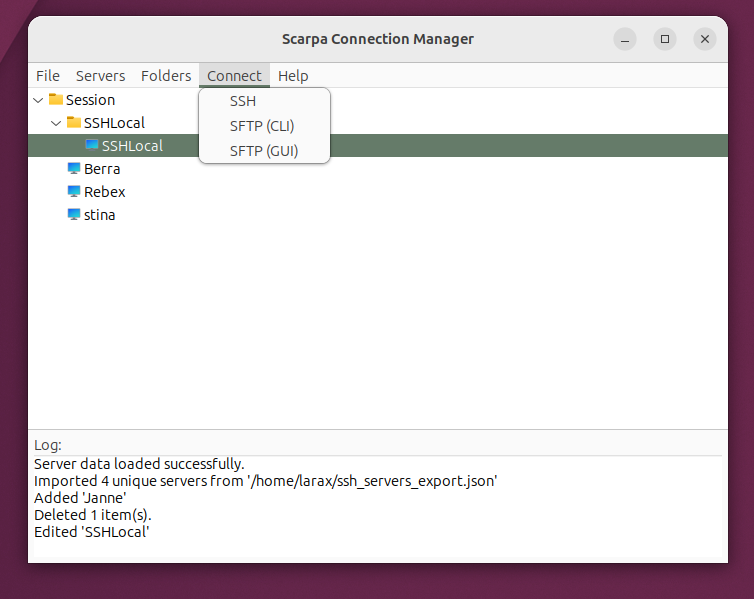
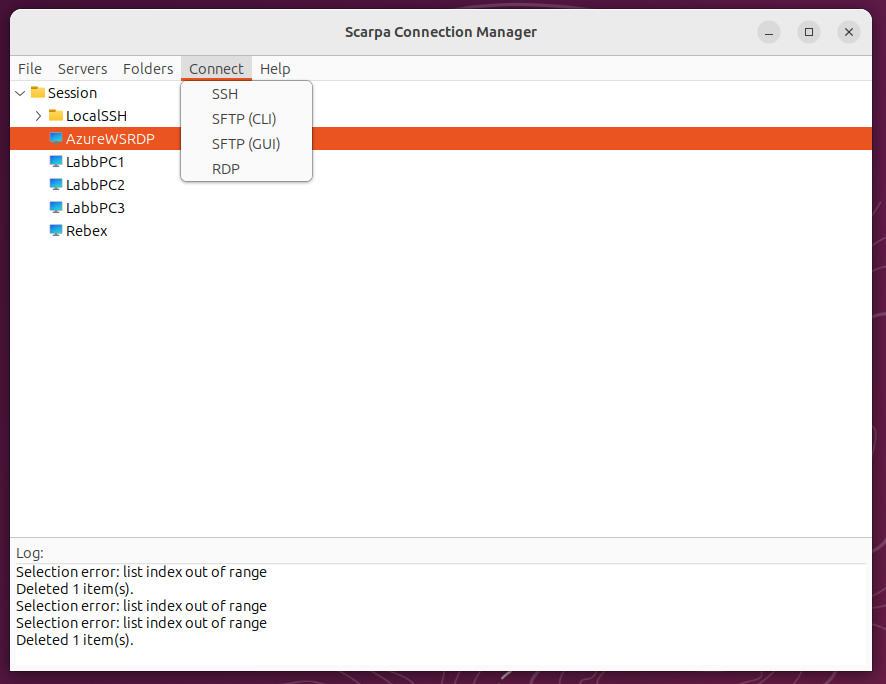
Updated user_guide.html and readme.md

Changed region(s): [[0.0, 0.0, 1.0, 1.0]]

diff --git a/docs/user_guide.html b/docs/user_guide.html
@@ -113,6 +113,8 @@
                             <li><a href="#login-actions-tab">2.1.4 Login Actions Tab</a></li>
                             <li><a href="#port-forwarding-tab">2.1.5 Port Forwarding Tab</a></li>
                             <li><a href="#appearance-tab">2.1.6 Appearance Tab</a></li>
+                            <li><a href="#rdp-tab">2.1.7 RDP Tab</a></li>
+                            
                         </ul>
                     </li>
                 </ul>
@@ -334,6 +336,37 @@
             <img src="AppearanceSelectFont.png" alt="Font Selection Dialog">
             <div class="screenshot-caption">Selecting a custom monospace font.</div>
         </div>
+        
+        <h4 id="rdp-tab">2.1.7 RDP Tab</h4>
+        <p>The <strong>RDP</strong> tab enables you to configure Remote Desktop Protocol settings, which is essential if you are connecting to Windows servers or desktop environments. This tab also includes advanced SSH tunneling capabilities for reaching RDP servers hidden behind strict firewalls.</p>
+
+        <div class="screenshot-container">
+            <img src="RDPTab.png" alt="RDP Tab Dialog">
+            <div class="screenshot-caption">Configuring Remote Desktop (RDP) settings and SSH Jump chains.</div>
+        </div>
+
+        <p>Here is a breakdown of the available RDP configuration options:</p>
+        <ul>
+            <li><strong>Enable RDP connection for this server:</strong> This master switch must be checked to activate the RDP functionality for the current server profile.</li>
+            <li><strong>RDP Port:</strong> Defines the network port used for the remote desktop connection (defaults to the standard 3389).</li>
+            <li><strong>Resolution:</strong> Allows you to set a specific window size (e.g., 1920x1080), or choose Dynamic/Fullscreen based on your display preferences.</li>
+            <li><strong>Enable Clipboard Sharing (Copy/Paste):</strong> Seamlessly share copied text and files between your local machine and the remote desktop environment.</li>
+            <li><strong>Redirect Audio to Local Machine:</strong> When enabled, sound generated on the remote machine will be routed and played through your local computer's speakers.</li>
+            <li><strong>Ignore Certificate Warnings:</strong> Bypasses security warnings commonly caused by self-signed RDP certificates on internal networks.</li>
+            <li><strong>Share Local Home Folder:</strong> Securely maps your local machine's home directory so it appears as a readable/writable networked drive inside the remote Windows session.</li>
+        </ul>
+
+        <h5 style="color: var(--primary-color); font-size: 1.1em; margin-top: 1.5em;">SSH Jump Hosts</h5>
+        <p>If your target RDP server is not directly accessible from your local network, you can use the <strong>SSH Jump Hosts</strong> feature to securely tunnel your RDP traffic through one or more intermediate SSH servers.</p>
+
+        <ul>
+            <li><strong>Managing the Chain:</strong> Use the Add, Edit, and Delete buttons to define the SSH servers required to reach your final destination.</li>
+            <li><strong>Order Matters:</strong> The connection sequence executes strictly from <strong>Top to Bottom</strong>. Ensure your chain is ordered correctly using the Up and Down arrow buttons.</li>
+        </ul>
+        
+        <div class="note-box">
+            <strong>Behind the Scenes:</strong> Scarpa automatically builds the complex SSH proxy tunnel in the background, negotiates all required passwords across multiple hops, routes the RDP session securely over the tunnel, and safely tears the tunnel down the moment you close the RDP window.
+        </div>
 	</section>
 
     <section id="organizing">
@@ -496,7 +529,7 @@
                 <div class="screenshot-caption">Connecting via the top menu bar.</div>
             </div>
             <div class="screenshot-container" style="flex: 1; margin: 0;">
-                <img src="ServerActionViaRightClick.png" alt="Connect via Right Click">
+                <img src="ConnectActionViaRightClick.png" alt="Connect via Right Click">
                 <div class="screenshot-caption">Connecting directly via the right-click context menu.</div>
             </div>
         </div>

diff --git a/src/scarpa_connection_manager.py b/src/scarpa_connection_manager.py
@@ -6462,7 +6462,7 @@ if logger.f: logger.f.close()
             modal=True,
             program_name=APP_TITLE,
             version="1.2.23",
-            authors=["Copilot, Gemini, Tomas Larsson"],
+            authors=["Gemini, Tomas Larsson"],
             artists=["Tomas Larsson"],
             comments="A GTK-based SSH/SFTP session manager.\nRiposa in pace, Aquila di Filottrano. Sarai sempre con noi!"
         )

diff --git a/docs/readme.md b/docs/readme.md
@@ -1,149 +1,149 @@
-# Scarpa Connection Manager – User & Technical Guide
+# Scarpa Connection Manager – User & Technical Guide[cite: 2]
 
-## Table of Contents
-1. [Introduction](#1-introduction)  
-2. [Core Features](#2-core-features)  
-   - [Server & Folder Management](#21-server--folder-management)  
-   - [Connection & Automation](#22-connection--automation)  
-   - [Data Management & Logging](#23-data-management--logging)  
-   - [SFTP File Manager](#24-sftp-file-manager)
-3. [The "Super Safe" Encryption System](#3-the-super-safe-encryption-system)  
-   - [How It Works](#31-how-it-works)  
-   - [Data Storage Location](#32-data-storage-location)  
-   - [Changing Your Passphrase](#33-changing-your-passphrase)  
-4. [Appearance & Customization](#4-appearance--customization)  
-   - [Per-Server Customization](#41-per-server-customization)  
-   - [Global Settings](#42-global-settings)  
-5. [Importing & Exporting Data](#5-importing--exporting-data)  
-6. [Getting Started](#6-getting-started)  
-7. [Installation Instructions](#7-installation-instructions)  
-8. [Troubleshooting & Dependencies](#8-troubleshooting--dependencies)
-
----
-
-## 1. Introduction
-Scarpa Connection Manager is a secure GTK3-based desktop application for managing and launching SSH and SFTP connections. It organizes server configurations into folders, automates complex login sequences, and supports advanced port forwarding.  
-Sensitive data is heavily protected using a robust GnuPG-based local encryption system.
+## Table of Contents[cite: 2]
+1. [Introduction](#1-introduction)[cite: 2]
+2. [Core Features](#2-core-features)[cite: 2]
+   - [Server & Folder Management](#21-server--folder-management)[cite: 2]
+   - [Connection & Automation](#22-connection--automation)[cite: 2]
+   - [Data Management & Logging](#23-data-management--logging)[cite: 2]
+   - [SFTP File Manager](#24-sftp-file-manager)[cite: 2]
+3. [The "Super Safe" Encryption System](#3-the-super-safe-encryption-system)[cite: 2]
+   - [How It Works](#31-how-it-works)[cite: 2]
+   - [Data Storage Location](#32-data-storage-location)[cite: 2]
+   - [Changing Your Passphrase](#33-changing-your-passphrase)[cite: 2]
+4. [Appearance & Customization](#4-appearance--customization)[cite: 2]
+   - [Per-Server Customization](#41-per-server-customization)[cite: 2]
+   - [Global Settings](#42-global-settings)[cite: 2]
+5. [Importing & Exporting Data](#5-importing--exporting-data)[cite: 2]
+6. [Getting Started](#6-getting-started)[cite: 2]
+7. [Installation Instructions](#7-installation-instructions)[cite: 2]
+8. [Troubleshooting & Dependencies](#8-troubleshooting--dependencies)[cite: 2]
 
 ---
 
-## 2. Core Features
-
-### 2.1 Server & Folder Management
-- **Hierarchical Organization:** Structure your servers deeply into categorized folders.  
-- **Quick Actions:** Add, edit, and delete servers and folders via intuitive top-bar menus or right-click context menus.  
-- **Multi-selection Support:** Use `Ctrl+Click` / `Shift+Click` for batch operations.  
-- **Inline Renaming:** Slow double-click any item to rename it directly in the tree view (fast double-click to connect).  
-- **Drag-and-Drop:** Seamlessly reorganize your structure by dragging items between folders.  
-- **Keyboard Shortcuts:** Quick copy/paste via `Ctrl+C` / `Ctrl+V`, and fast deletion via `Delete`.  
-- **Natural Sorting:** Alphanumeric sorting ensures `server10` correctly appears after `server9`.
-
-### 2.2 Connection & Automation
-- **Multi-Protocol:** Direct access to standard SSH interactive terminals and CLI SFTP sessions.  
-- **Embedded VTE Terminal:** Features smart copy/paste, context menus, and auto-resize syncing with the remote host.  
-- **Authentication Options:** Securely authenticate via standard passwords or Private Key files (e.g., RSA/ED25519).  
-- **Automated Login Sequences:** Build robust Expect/Send steps to automate jump-servers or secondary prompts (passwords can be visually hidden as dots in the UI).  
-- **Advanced Port Forwarding:** Visually configure Local (-L), Remote (-R), and Dynamic (-D) SOCKS proxies.  
-
-### 2.3 Data Management & Logging
-- **GUI Log Pane:** Real-time feedback on application events, transfers, and connection statuses at the bottom of the main window.  
-- **Session Logging:** Save permanent, timestamped records of your SSH terminal output to local text files.  
-
-### 2.4 SFTP File Manager
-- **Dual-Pane Interface:** Visually manage files between your Local machine (left) and Remote server (right) side-by-side.
-- **Intuitive Navigation:** Clickable breadcrumb paths and dedicated refresh buttons keep both panes up to date.
-- **Drag & Drop Transfers:** Seamlessly upload, download, or move files by dragging them between panes or directly onto breadcrumb folders.
-- **Smart Transfers (Stop & Resume):** Instantly abort accidental transfers (Red X) or resume partially downloaded/uploaded files to save bandwidth.
-- **Recursive Search:** Search deeply through subfolders with the binoculars tool, and double-click any result to navigate there instantly.
-- **Open Default File Types (Auto-Sync):** Double-click any recognized file (local or remote) to open it in your system's default application (e.g., text editor). Remote files are securely downloaded to a temporary folder, and any saves you make are automatically synced back to the server in the background!
-- **Context Menus & Shortcuts:** Use `Ctrl+C`, `Ctrl+X`, `Ctrl+V`, `Delete` (moves to Trash), and `Shift+Delete` (permanent destruction) to manage files at lightning speed.
+## 1. Introduction[cite: 2]
+Scarpa Connection Manager is a secure GTK3-based desktop application for managing and launching SSH and SFTP connections.[cite: 2] It organizes server configurations into folders, automates complex login sequences, and supports advanced port forwarding.[cite: 2] 
+Sensitive data is heavily protected using a robust GnuPG-based local encryption system.[cite: 2]
 
 ---
 
-## 3. The "Super Safe" Encryption System
+## 2. Core Features[cite: 2]
 
-### 3.1 How It Works
-1. A Master Passphrase is created on the very first launch.  
-2. The passphrase is mathematically hashed using PBKDF2-HMAC-SHA256 (600,000 iterations, locally salted).  
-3. Server data is stored in `ssh_servers.json.gpg` encrypted with AES256 via GnuPG.  
-4. Your passwords and keys are decrypted *only in memory* during active sessions.  
+### 2.1 Server & Folder Management[cite: 2]
+- **Hierarchical Organization:** Structure your servers deeply into categorized folders.[cite: 2]
+- **Quick Actions:** Add, edit, and delete servers and folders via intuitive top-bar menus or right-click context menus.[cite: 2]
+- **Multi-selection Support:** Use `Ctrl+Click` / `Shift+Click` for batch operations.[cite: 2]
+- **Inline Renaming:** Slow double-click any item to rename it directly in the tree view (fast double-click to connect).[cite: 2]
+- **Drag-and-Drop:** Seamlessly reorganize your structure by dragging items between folders.[cite: 2]
+- **Keyboard Shortcuts:** Quick copy/paste via `Ctrl+C` / `Ctrl+V`, and fast deletion via `Delete`.[cite: 2]
+- **Natural Sorting:** Alphanumeric sorting ensures `server10` correctly appears after `server9`.[cite: 2]
 
-### 3.2 Data Storage Location
-- **Path:** `~/.local/share/scarpa_connection_manager/`  
-- **Files:** 
-  - `scarpa_cm_settings.json` → Global settings, hash + salt of the Master Passphrase.  
-  - `ssh_servers.json.gpg` → Encrypted server configurations.  
+### 2.2 Connection & Automation[cite: 2]
+- **Multi-Protocol:** Direct access to standard SSH interactive terminals, CLI SFTP sessions, and full Windows RDP desktop environments.[cite: 2, 3]
+- **Remote Desktop (RDP):** Native integration for Windows servers including clipboard sharing, audio redirection, dynamic resolution, and local home folder sharing.[cite: 3]
+- **Embedded VTE Terminal:** Features smart copy/paste, context menus, and auto-resize syncing with the remote host.[cite: 2]
+- **Authentication Options:** Securely authenticate via standard passwords or Private Key files (e.g., RSA/ED25519).[cite: 2]
+- **Automated Login Sequences:** Build robust Expect/Send steps to automate jump-servers or secondary prompts (passwords can be visually hidden as dots in the UI).[cite: 2]
+- **Advanced Port Forwarding & Tunnels:** Visually configure Local (-L), Remote (-R), and Dynamic (-D) SOCKS proxies, plus multi-hop SSH Jump Hosts for securely routing RDP traffic.[cite: 2, 3]
 
-### 3.3 Changing Your Passphrase
-- Accessible via `File -> Change Passphrase...`  
-- Requires your current passphrase to verify identity, then securely re-encrypts the entire database atomically with your new passphrase (generating a fresh cryptographic salt).  
+### 2.3 Data Management & Logging[cite: 2]
+- **GUI Log Pane:** Real-time feedback on application events, transfers, and connection statuses at the bottom of the main window.[cite: 2]
+- **Session Logging:** Save permanent, timestamped records of your SSH terminal output to local text files.[cite: 2]
 
----
-
-## 4. Appearance & Customization
-
-### 4.1 Per-Server Customization
-- **Color Schemes:** Apply pre-built palettes (Tango, Solarized, Dracula) or pick custom foreground/background colors for specific environments (e.g., Red for Production).  
-- **Typography:** Choose custom monospace fonts and sizing per terminal.  
-- **Scrollback Buffer:** Define how many lines of history the terminal retains (default: 10,000 lines).  
-
-### 4.2 Global Settings
-Accessed via `File -> Global Settings...`, this defines the application's baseline defaults:
-- Sets the default appearance (font, colors, palette) applied automatically to all *new* servers.  
-- Defines the default log folder for session logs.  
-- Features a "Reset to Defaults" button in the server editor to instantly apply these global settings to any existing server.
-
----
-
-## 5. Importing & Exporting Data
-
-- **Importing (Migrating):** Easily switch to Scarpa by importing existing configurations from other tools like MobaXterm, SecureCRT, and PuTTY via `File -> Import`.
-- **Exporting (Backups):** Export your entire database via `File -> Export`. Choose between a highly secure **GPG Encrypted (.gpg)** file for safe cloud storage, or a **Plaintext JSON (.json)** file (which strips all passwords for security) for scripting and bulk editing.
+### 2.4 SFTP File Manager[cite: 2]
+- **Dual-Pane Interface:** Visually manage files between your Local machine (left) and Remote server (right) side-by-side.[cite: 2]
+- **Intuitive Navigation:** Clickable breadcrumb paths and dedicated refresh buttons keep both panes up to date.[cite: 2]
+- **Drag & Drop Transfers:** Seamlessly upload, download, or move files by dragging them between panes or directly onto breadcrumb folders.[cite: 2]
+- **Smart Transfers (Stop & Resume):** Instantly abort accidental transfers (Red X) or resume partially downloaded/uploaded files to save bandwidth.[cite: 2]
+- **Recursive Search:** Search deeply through subfolders with the binoculars tool, and double-click any result to navigate there instantly.[cite: 2]
+- **Open Default File Types (Auto-Sync):** Double-click any recognized file (local or remote) to open it in your system's default application (e.g., text editor).[cite: 2] Remote files are securely downloaded to a temporary folder, and any saves you make are automatically synced back to the server in the background![cite: 2]
+- **Context Menus & Shortcuts:** Use `Ctrl+C`, `Ctrl+X`, `Ctrl+V`, `Delete` (moves to Trash), and `Shift+Delete` (permanent destruction) to manage files at lightning speed.[cite: 2]
 
 ---
 
-## 6. Getting Started
-1. Launch the app and set your Master Passphrase.  
-2. Add servers by right-clicking on the “Session” folder → **Add Server**.  
-3. Connect by double-clicking a server or right-clicking to choose SSH, SFTP (CLI), or SFTP (GUI).  
+## 3. The "Super Safe" Encryption System[cite: 2]
+
+### 3.1 How It Works[cite: 2]
+1. A Master Passphrase is created on the very first launch.[cite: 2]
+2. The passphrase is mathematically hashed using PBKDF2-HMAC-SHA256 (600,000 iterations, locally salted).[cite: 2]
+3. Server data is stored in `ssh_servers.json.gpg` encrypted with AES256 via GnuPG.[cite: 2]
+4. Your passwords and keys are decrypted *only in memory* during active sessions.[cite: 2]
+
+### 3.2 Data Storage Location[cite: 2]
+- **Path:** `~/.local/share/scarpa_connection_manager/`[cite: 2]
+- **Files:**[cite: 2]
+  - `scarpa_cm_settings.json` → Global settings, hash + salt of the Master Passphrase.[cite: 2]
+  - `ssh_servers.json.gpg` → Encrypted server configurations.[cite: 2]
+
+### 3.3 Changing Your Passphrase[cite: 2]
+- Accessible via `File -> Change Passphrase...`[cite: 2]
+- Requires your current passphrase to verify identity, then securely re-encrypts the entire database atomically with your new passphrase (generating a fresh cryptographic salt).[cite: 2]
 
 ---
 
-## 7. Installation Instructions
+## 4. Appearance & Customization[cite: 2]
 
-Scarpa Connection Manager is officially hosted on an Ubuntu Personal Package Archive (PPA) for easy installation and automatic updates, as well as the Canonical Snap Store.
+### 4.1 Per-Server Customization[cite: 2]
+- **Color Schemes:** Apply pre-built palettes (Tango, Solarized, Dracula) or pick custom foreground/background colors for specific environments (e.g., Red for Production).[cite: 2]
+- **Typography:** Choose custom monospace fonts and sizing per terminal.[cite: 2]
+- **Scrollback Buffer:** Define how many lines of history the terminal retains (default: 10,000 lines).[cite: 2]
 
-### 🚀 Install via PPA (Recommended)
-Because this uses standard Debian packaging, the application has unrestricted access to your host file system.
-
-**1. Add the repository:**
-```bash
-sudo add-apt-repository ppa:larre-b-larsson/scarpa-connection-manager
-```
-**2. Update and install:**
-```bash
-sudo apt update
-sudo apt install scarpa-connection-manager
-```
-
-### 📦 Install via Snap Store 
-For users who prefer sandboxed containers. *(Note: The Snap sandbox restricts application access to hidden dot-folders and areas outside your user home directory).*
-```bash
-sudo snap install connection-manager-scarpa
-```
+### 4.2 Global Settings[cite: 2]
+Accessed via `File -> Global Settings...`, this defines the application's baseline defaults:[cite: 2]
+- Sets the default appearance (font, colors, palette) applied automatically to all *new* servers.[cite: 2]
+- Defines the default log folder for session logs.[cite: 2]
+- Features a "Reset to Defaults" button in the server editor to instantly apply these global settings to any existing server.[cite: 2]
 
 ---
 
-## 8. Troubleshooting & Dependencies
-- **Lost Master Passphrase:** Because encryption is strictly local, a lost passphrase is unrecoverable. You must delete `~/.local/share/scarpa_connection_manager/` to reset the application.  
-- **Dependencies required:** 
-  - `python3-gi`  
-  - `gir1.2-gtk-3.0`  
-  - `gir1.2-vte-2.91`  
-  - `python3-paramiko`
-  - `python3-pexpect`  *(Handles the robust terminal automation)*
-  - `gnupg`  
-  - `openssh-client`
+## 5. Importing & Exporting Data[cite: 2]
+
+- **Importing (Migrating):** Easily switch to Scarpa by importing existing configurations from other tools like MobaXterm, SecureCRT, and PuTTY via `File -> Import`.[cite: 2]
+- **Exporting (Backups):** Export your entire database via `File -> Export`.[cite: 2] Choose between a highly secure **GPG Encrypted (.gpg)** file for safe cloud storage, or a **Plaintext JSON (.json)** file (which strips all passwords for security) for scripting and bulk editing.[cite: 2]
 
 ---
-*Riposa in pace, Aquila di Filottrano. Sarai sempre con noi!*
+
+## 6. Getting Started[cite: 2]
+1. Launch the app and set your Master Passphrase.[cite: 2]
+2. Add servers by right-clicking on the “Session” folder → **Add Server**.[cite: 2]
+3. Connect by double-clicking a server or right-clicking to choose SSH, SFTP (CLI), or SFTP (GUI).[cite: 2]
+
+---
+
+## 7. Installation Instructions[cite: 2]
+
+Scarpa Connection Manager is officially hosted on an Ubuntu Personal Package Archive (PPA) for easy installation and automatic updates, as well as the Canonical Snap Store.[cite: 2]
+
+### 🚀 Install via PPA (Recommended)[cite: 2]
+Because this uses standard Debian packaging, the application has unrestricted access to your host file system.[cite: 2]
+
+**1. Add the repository:**[cite: 2]
+
+    sudo add-apt-repository ppa:larre-b-larsson/scarpa-connection-manager
+
+**2. Update and install:**[cite: 2]
+
+    sudo apt update
+    sudo apt install scarpa-connection-manager
+
+### 📦 Install via Snap Store[cite: 2]
+For users who prefer sandboxed containers. *(Note: The Snap sandbox restricts application access to hidden dot-folders and areas outside your user home directory).*[cite: 2]
+
+    sudo snap install connection-manager-scarpa
+
+---
+
+## 8. Troubleshooting & Dependencies[cite: 2]
+- **Lost Master Passphrase:** Because encryption is strictly local, a lost passphrase is unrecoverable.[cite: 2] You must delete `~/.local/share/scarpa_connection_manager/` to reset the application.[cite: 2]
+- **Dependencies required:**[cite: 2]
+  - `python3-gi`[cite: 2]
+  - `gir1.2-gtk-3.0`[cite: 2]
+  - `gir1.2-vte-2.91`[cite: 2]
+  - `python3-paramiko`[cite: 2]
+  - `python3-pexpect`  *(Handles the robust terminal automation)*[cite: 2]
+  - `gnupg`[cite: 2]
+  - `openssh-client`[cite: 2]
+  - `freerdp3-x11` *(Required for native RDP protocol and jump-host integrations)*[cite: 2, 3]
+
+---
+*Riposa in pace, Aquila di Filottrano. Sarai sempre con noi!*[cite: 2]